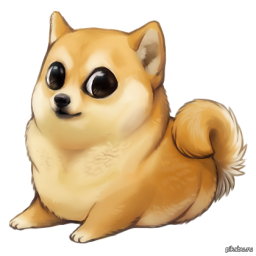
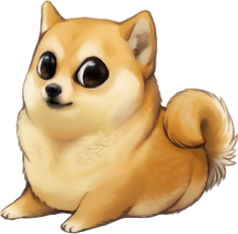
Add shocked dog and make enemies move to it

diff --git a/src/index.js b/src/index.js
@@ -4,6 +4,8 @@ import BitchManager from "./components/BitchManager";
 import BadCat from "./components/BadCat";
 import RocketManager from "./components/RocketManager";
 import {hitTestRectangle} from "./CollisionUtils";
+import {ScoreCounter} from "./components/ScoreCount";
+import {ShockedDog} from "./components/ShockedDog";
 
 // The application will create a renderer using WebGL, if possible,
 // with a fallback to a canvas render. It will also setup the ticker
@@ -16,12 +18,14 @@ export const app = new PIXI.Application({
     resolution: 1       // default: 1
 });
 
+const BUTTON_Z_INDEX = 1;
+const BACKGROUND_Z_INDEX = 0;
 
 // The application will create a canvas element for you that you
 // can then insert into the DOM
 
 document.body.appendChild(app.view);
-app.renderer.backgroundColor = 0x22A7F0;
+app.renderer.backgroundColor = 0x008000;
 
 app.renderer.autoDensity = true;
 app.renderer.view.style.position = "absolute";
@@ -30,45 +34,109 @@ app.renderer.resize(window.innerWidth, window.innerHeight);
 
 let bitchManager;
 let player;
-let scoreSprite;
-let score = 0;
-const SCORE = 'SCORE: ';
+let startButton;
+let shockedDog;
+
+let repeatButton;
+let scoreCounter;
 
 app.loader.add([
+    "assets/repeat_button.svg",
+    "assets/background_grass.jpg",
+    "assets/start_button.svg",
     "assets/bitch.png",
     "assets/bad_cat.png",
-    "assets/rocket.png"
+    "assets/rocket.png",
+    "assets/shocked_dog.png"
 ]).load(init);
 
-function init()
-{
+let startGame = () => {
+    app.stage.removeChild(startButton);
+
+    shockedDog = new ShockedDog();
     bitchManager = new BitchManager();
     player = new BadCat();
-    scoreSprite = new PIXI.Text(SCORE + 0, {
-        fontFamily: 'Charter, Baskerville, Georgia',
-        fontSize: 24,
-        fill: 0xff1010,
-        align: 'center'
-    });
-
-    app.stage.addChild(scoreSprite);
-    app.render();
+    scoreCounter = new ScoreCounter();
 
     app.ticker.add(delta => gameLoop(delta));
+};
+
+let repeatGame = () => {
+    app.stage.removeChild(repeatButton);
+
+    bitchManager.clean();
+    player.clean();
+    scoreCounter.clean();
+
+    app.ticker.start();
+};
+
+function initButtons() {
+    startButton = new PIXI.Sprite(app.loader.resources["assets/start_button.svg"].texture);
+    repeatButton = new PIXI.Sprite(app.loader.resources["assets/repeat_button.svg"].texture);
+
+    startButton.buttonMode = true;
+    repeatButton.buttonMode = true;
+
+    startButton.zIndex = BUTTON_Z_INDEX;
+    repeatButton.zIndex = BUTTON_Z_INDEX;
+
+    startButton.anchor.set(0.5);
+    repeatButton.anchor.set(0.5);
+    startButton.width = app.screen.height * 0.3;
+    startButton.height = app.screen.height * 0.3;
+    repeatButton.width = app.screen.height * 0.3;
+    repeatButton.height = app.screen.height * 0.3;
+
+    startButton.position.x = app.stage.width / 2;
+    startButton.position.y = app.stage.height / 2;
+    repeatButton.position.x = app.stage.width / 2;
+    repeatButton.position.y = app.stage.height / 2;
+    startButton.interactive = true;
+    repeatButton.interactive = true;
+
+
+    startButton
+        .on('tap', startGame)
+        .on('click', startGame);
+
+    repeatButton
+        .on('tap', repeatGame)
+        .on('click', repeatGame);
+
+
+    app.stage.addChild(startButton);
+}
+
+function initBackground() {
+    let background = new PIXI.Sprite(app.loader.resources["assets/background_grass.jpg"].texture);
+    background.width = app.renderer.width;
+    background.height = app.renderer.height;
+    background.zIndex = BACKGROUND_Z_INDEX;
+    app.stage.addChild(background);
+}
+
+function init() {
+    initBackground();
+    initButtons();
+    app.render();
 }
 
 function gameLoop() {
     BitchManager.list.forEach(function (bitchSprite) {
-        if (hitTestRectangle(bitchSprite, player.sprite)) {
+        if (hitTestRectangle(bitchSprite, player.sprite)
+            || hitTestRectangle(bitchSprite, shockedDog.sprite)) {
             app.ticker.stop();
+            // todo cover everything by rectangle
+            bitchManager.stopBitchesProducing();
+            scoreCounter.showFinal();
+            app.stage.addChild(repeatButton);
         }
     });
 
     bitchManager.update();
     player.update();
-
-    score++;
-    scoreSprite.text = SCORE + score;
+    scoreCounter.update();
 
     RocketManager.list.forEach((rocket, rocketIndex) =>
     {

diff --git a/src/components/BitchManager.js b/src/components/BitchManager.js
@@ -2,6 +2,9 @@ import {app} from "../index";
 import * as PIXI from 'pixi.js';
 
 let _list = [];
+
+const BITCH_Z_INDEX = 100;
+
 export default class BitchManager
 {
     static get list() {
@@ -14,28 +17,55 @@ export default class BitchManager
 
     constructor()
     {
-        window.setInterval(function()
-        {
-            this.bitch = new PIXI.Sprite(app.loader.resources["assets/bitch.png"].texture);
-            this.bitch.anchor.set(0.5, 0.5);
-            this.bitch.scale.set(0.4, 0.4);
-
-            this.bitch.position.set(app.screen.width * 1.3, ((app.screen.height - this.bitch.height) * Math.random()) + this.bitch.height / 2);
-
-            app.stage.addChildAt(this.bitch, 0);
-            BitchManager.list.push(this.bitch);
-        }.bind(this), 2000);
+        this.interval = window.setInterval(this.produceBitch(), 2000);
     }
 
     update()
     {
         BitchManager.list.forEach(function (element, index, array) {
-            element.position.x -= 4;
+            let speed = Math.trunc(app.screen.width / 200);
+            // element.position.x -= speed;
+
+            let xCathetus = element.position.x;
+            let yCathetus = app.screen.height / 2 - element.position.y;
+            let hypotenuse = Math.sqrt(Math.pow(xCathetus, 2) + Math.pow(yCathetus, 2));
+
+            let yDiff = (speed * yCathetus) / hypotenuse;
+            let xDiff = (speed * xCathetus) / hypotenuse;
+
+            element.position.y += yDiff;
+            element.position.x -= xDiff;
 
             if (element.position.x < -app.width * 0.3) {
                 element.destroy();
                 array.splice(0, 1);
             }
         });
+    }
+
+    produceBitch() {
+        return () => {
+            this.bitch = new PIXI.Sprite(app.loader.resources["assets/bitch.png"].texture);
+            this.bitch.anchor.set(0.5, 0.5);
+            this.bitch.width = app.screen.width * 0.13;
+            this.bitch.height = app.screen.width * 0.13;
+
+            this.bitch.zIndex = BITCH_Z_INDEX;
+
+            this.bitch.position.set(app.screen.width * 1.1, app.screen.height * 1.1 * Math.random());
+
+            app.stage.addChild(this.bitch);
+            BitchManager.list.push(this.bitch);
+        }
+    };
+
+    clean() {
+        BitchManager.list.forEach((element) => app.stage.removeChild(element));
+        BitchManager.list = [];
+        this.interval = window.setInterval(this.produceBitch(), 2000);
+    }
+
+    stopBitchesProducing() {
+        clearInterval(this.interval);
     }
 }

diff --git a/src/components/ScoreCount.js b/src/components/ScoreCount.js
@@ -1,0 +1,53 @@
+import * as PIXI from 'pixi.js';
+import {app} from "../index";
+
+const SCORE = 'SCORE: ';
+const COUNTER_Z_INDEX = 1000;
+
+export class ScoreCounter {
+    constructor() {
+        this.score = 0;
+        this.sprite = new PIXI.Text(SCORE + 0, {
+            fontFamily: 'Charter, Baskerville, Georgia',
+            fontSize: "25px",
+            fill: 0xff1010,
+            align: 'center'
+        });
+
+        this.sprite.zIndex = COUNTER_Z_INDEX;
+
+        app.stage.addChild(this.sprite);
+    }
+
+    clean(){
+        this.score = 0;
+        app.stage.removeChild(this.sprite);
+        this.sprite = new PIXI.Text(SCORE + 0, {
+            fontFamily: 'Charter, Baskerville, Georgia',
+            fontSize: "25px",
+            fill: 0xff1010,
+            align: 'center'
+        });
+        this.sprite.zIndex = COUNTER_Z_INDEX;
+
+        app.stage.addChild(this.sprite);
+    }
+
+    showFinal(){
+        app.stage.removeChild(this.sprite);
+        this.sprite = new PIXI.Text(SCORE + this.score, {
+            fontFamily: 'Charter, Baskerville, Georgia',
+            fontSize: "45px",
+            fill: 0xff1010,
+            align: 'center'
+        });
+        this.sprite.zIndex = COUNTER_Z_INDEX;
+        app.stage.addChild(this.sprite);
+
+    }
+
+    update(){
+        this.score++;
+        this.sprite.text = SCORE + this.score;
+    }
+}

diff --git a/src/components/BadCat.js b/src/components/BadCat.js
@@ -2,6 +2,9 @@ import {app} from "../index";
 import RocketManager from "./RocketManager";
 import * as PIXI from 'pixi.js';
 
+const BAD_CAT_Z_INDEX = 1000;
+
+
 export default class BadCat
 {
     constructor()
@@ -10,10 +13,15 @@ export default class BadCat
 
         this.sprite.anchor.set(0.5, 0.5);
         this.sprite.position.set(app.screen.width * 0.2, app.screen.height * 0.4);
-        this.sprite.scale.set(0.2, 0.2);
+        this.sprite.width = app.screen.width * 0.1;
+        this.sprite.height = app.screen.width * 0.1;
+        this.sprite.zIndex = BAD_CAT_Z_INDEX;
 
         this.keyState = {32: false, 37: false, 38: false, 39: false, 40: false};
-        this.keyCodes = {37: -1, 38: -1, 39: 1, 40: 1};
+        let unit = Math.trunc(app.screen.width/400);
+        unit = unit === 0 ? 0.5 : unit;
+
+        this.keyCodes = {37: -unit, 38: -unit, 39: unit, 40: unit};
 
         this.directionX = 0;
         this.directionY = 0;
@@ -42,6 +50,13 @@ export default class BadCat
         }
 
         this.updateFire();
+    }
+
+    clean()
+    {
+        this.sprite.position.set(app.screen.width * 0.2, app.screen.height * 0.4);
+        this.sprite.width = app.screen.width * 0.1;
+        this.sprite.height = app.screen.width * 0.1;
     }
 
     updateFire()

diff --git a/src/components/RocketManager.js b/src/components/RocketManager.js
@@ -13,6 +13,8 @@ export default class RocketManager
     {
         this.sprite = new PIXI.Sprite(app.loader.resources["assets/rocket.png"].texture);
 
+        this.sprite.width = app.screen.width * 0.07;
+        this.sprite.height = app.screen.width * 0.05;
         this.sprite.anchor.set(0.5, 0.5);
         this.sprite.position.set(x + 50, y);
 
@@ -30,5 +32,10 @@ export default class RocketManager
             this.sprite.destroy();
             RocketManager.list.splice(RocketManager.list.indexOf(this), 1);
         }
+    }
+
+    clean() {
+        app.stage.removeChild(RocketManager.list);
+        RocketManager.list = [];
     }
 }

diff --git a/src/components/ShockedDog.js b/src/components/ShockedDog.js
@@ -1,0 +1,18 @@
+import * as PIXI from 'pixi.js';
+import {app} from "../index";
+
+const SHOCKED_DOG_Z_INDEX = 500;
+
+export class ShockedDog {
+    constructor() {
+        this.sprite = new PIXI.Sprite(app.loader.resources["assets/shocked_dog.png"].texture);
+
+        this.sprite.anchor.set(0.5, 0.5);
+        this.sprite.position.set(app.screen.width * 0.15, app.screen.height * 0.5);
+        this.sprite.width = app.screen.width * 0.1;
+        this.sprite.height = app.screen.width * 0.1;
+        this.sprite.zIndex = SHOCKED_DOG_Z_INDEX;
+
+        app.stage.addChild(this.sprite);
+    }
+}
